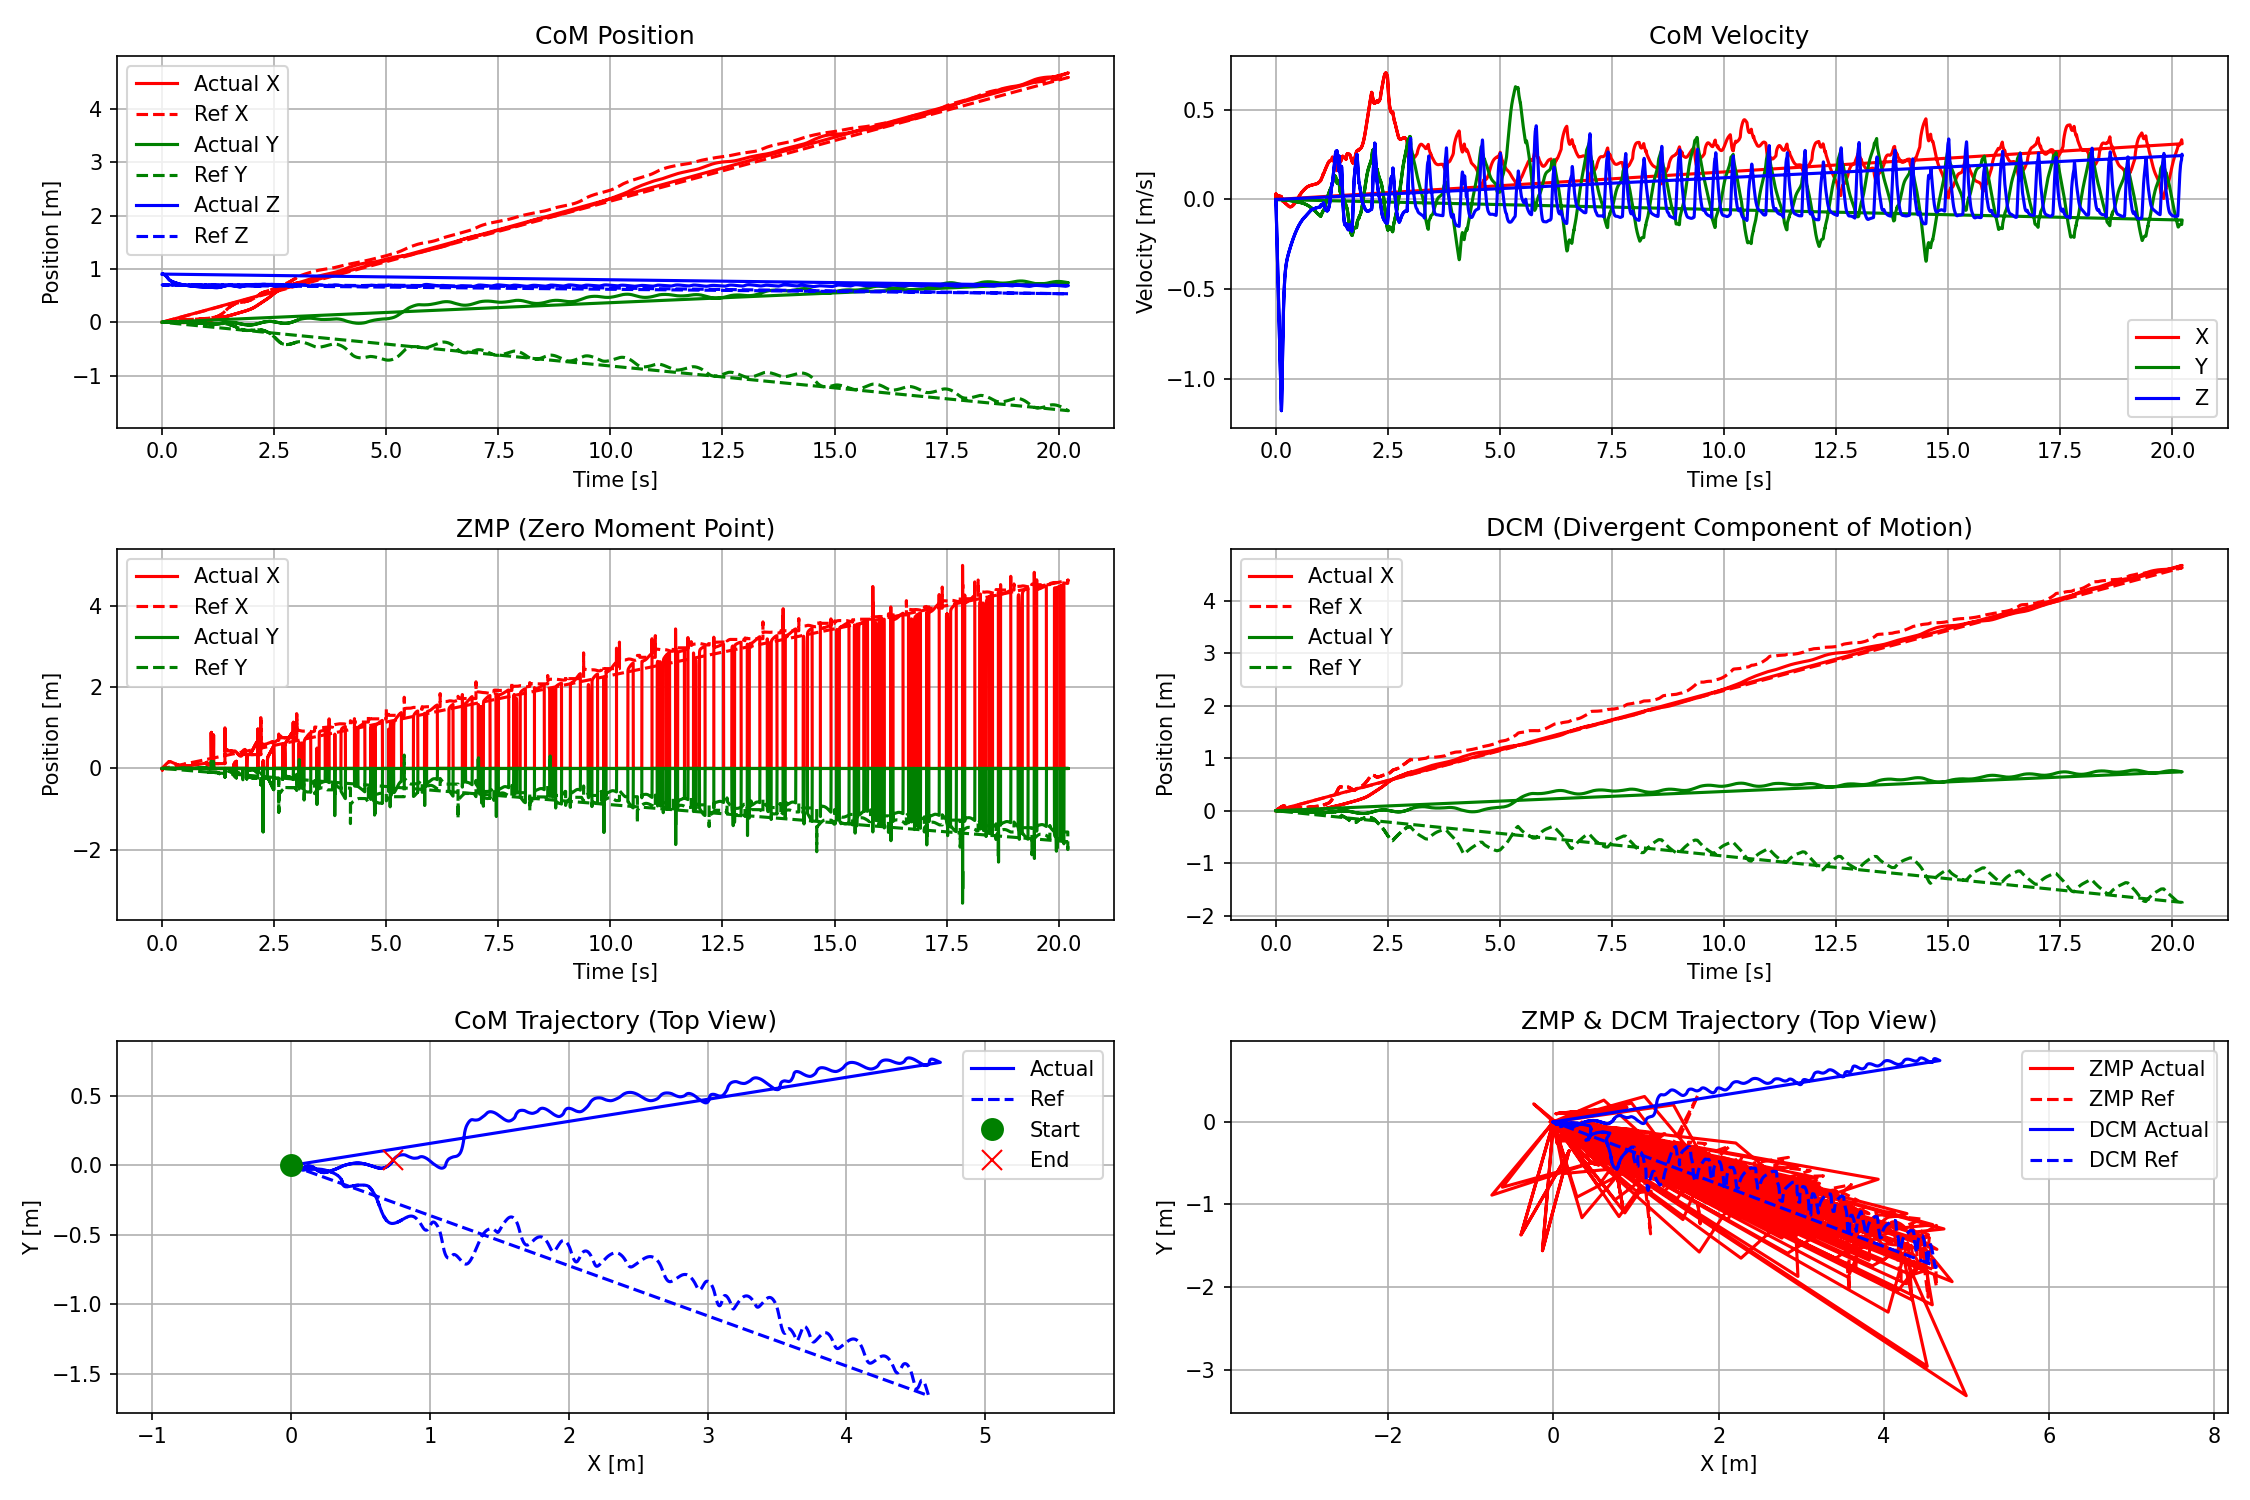
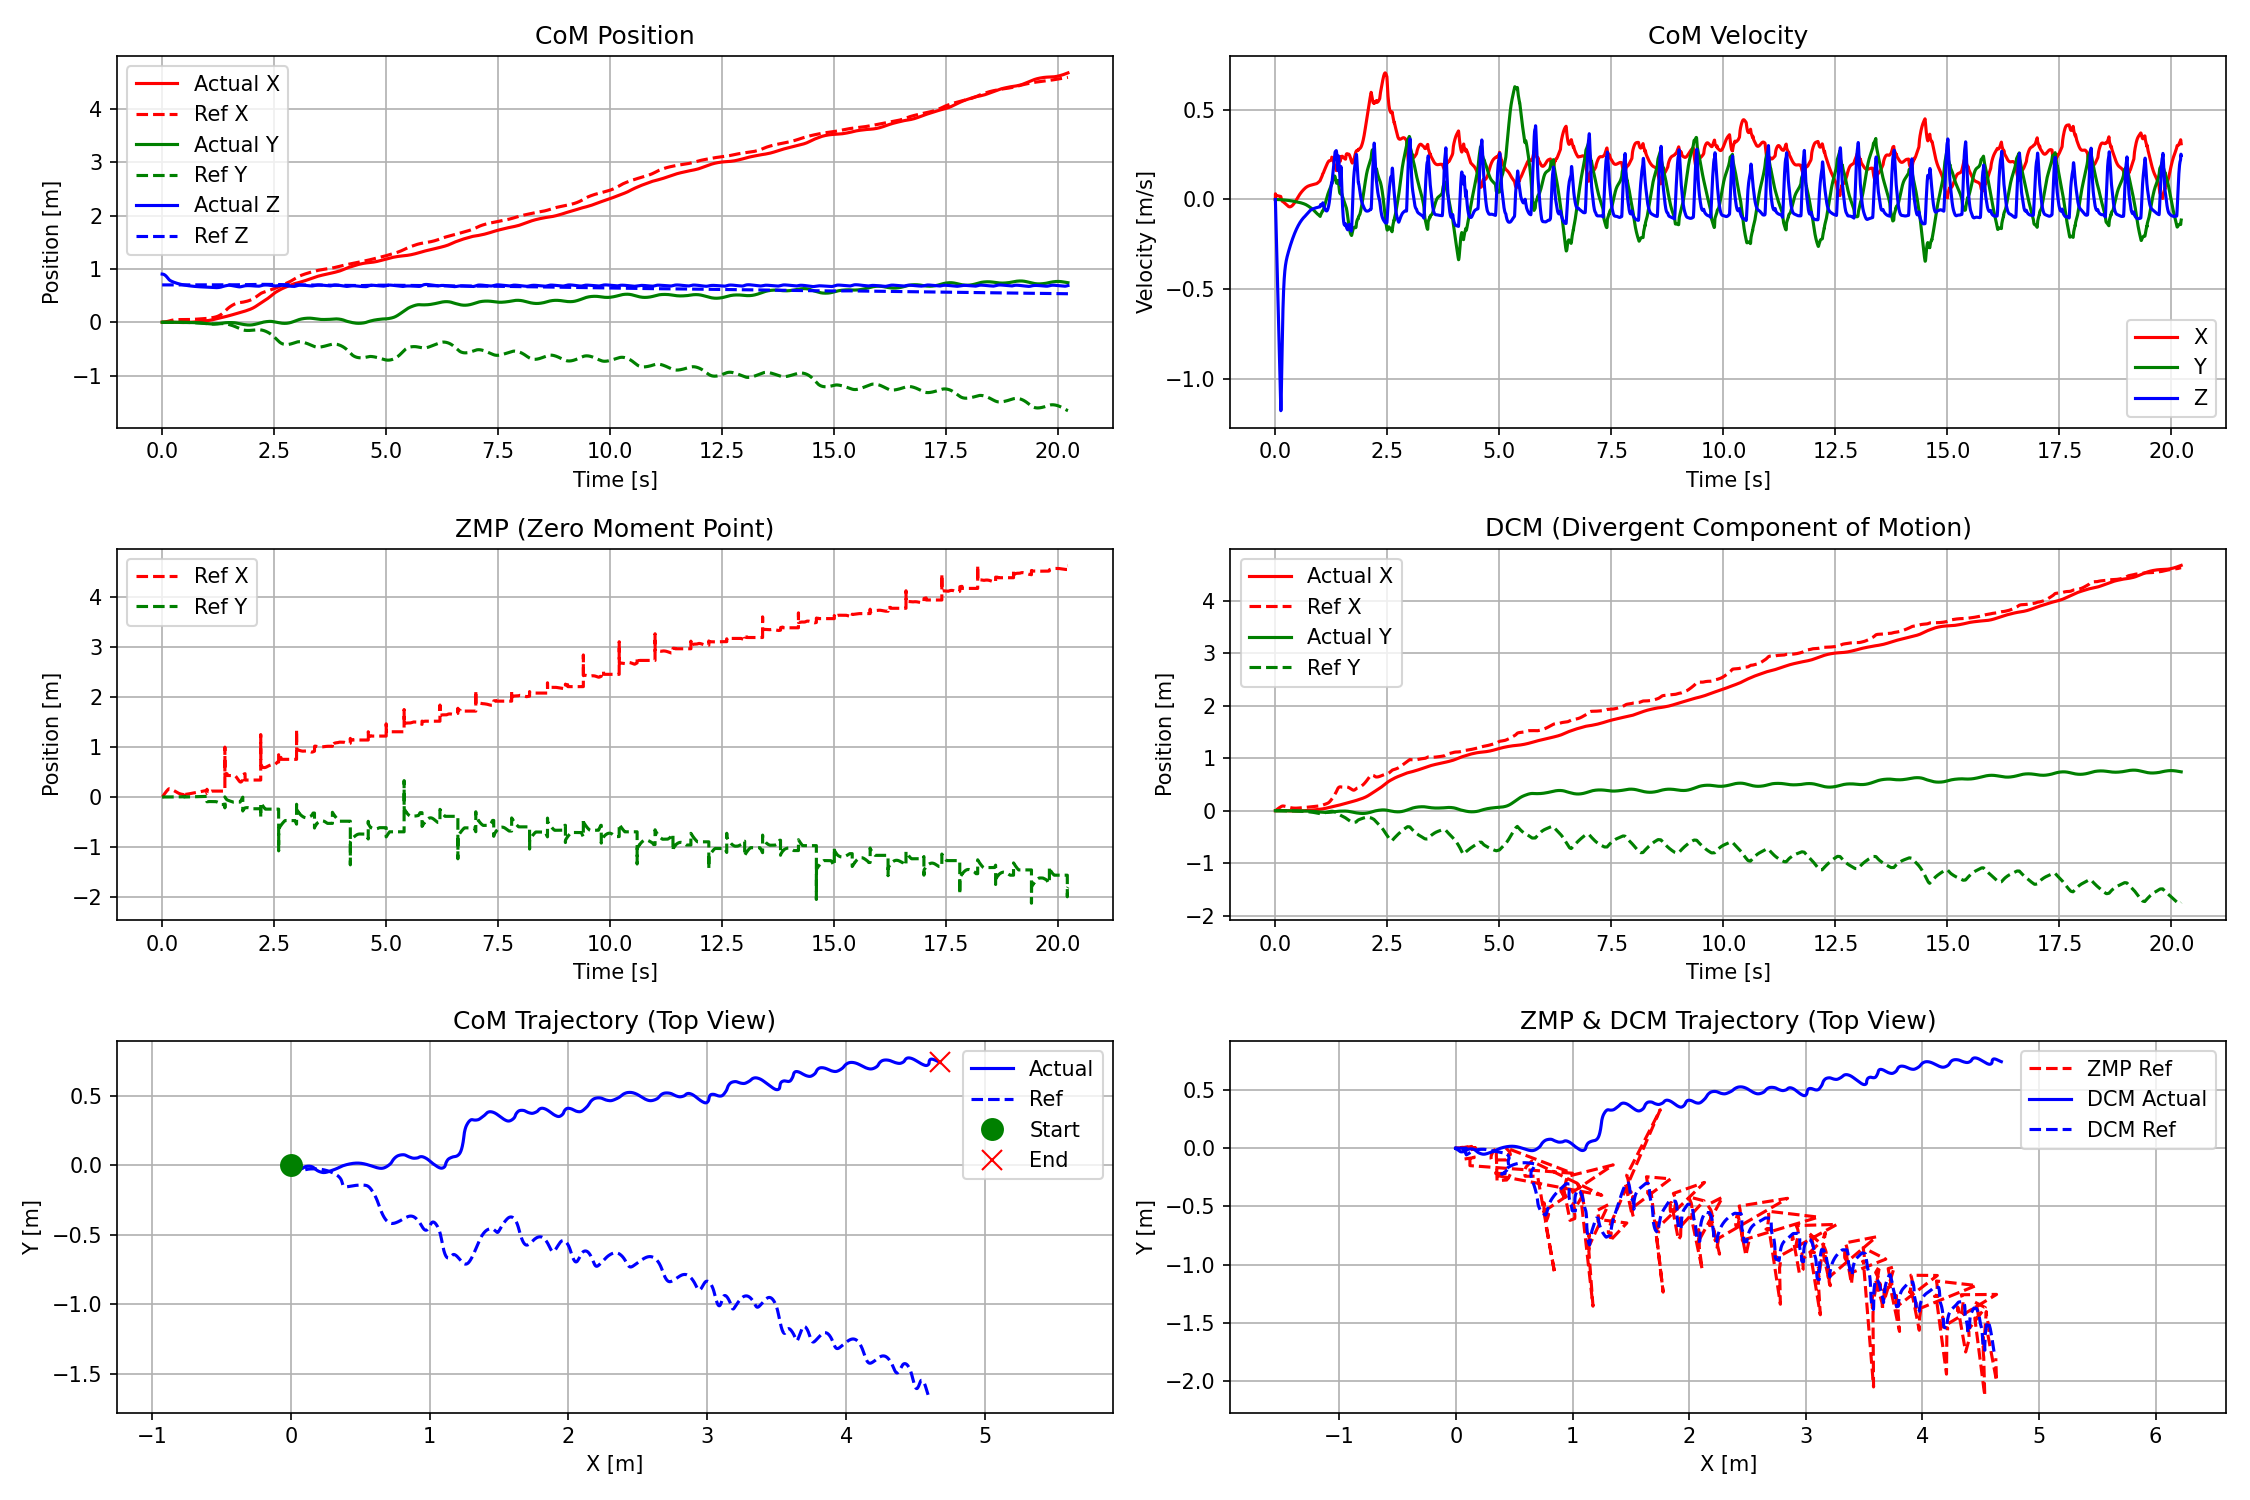
#3 変に書き換えるな

diff --git a/python_scripts/record_humanoid.py b/python_scripts/record_humanoid.py
@@ -30,7 +30,7 @@ print("  - 推論モード: 学習済みポリシー使用")
 print("=" * 70)
 
 # チェックポイント確認
-checkpoint_dir = os.path.abspath("./humanoid_vnoid_checkpoint_id1")
+checkpoint_dir = os.path.abspath("./humanoid_vnoid_checkpoint_id3")
 if not os.path.exists(checkpoint_dir):
     print(f"\n❌ エラー: チェックポイントが見つかりません")
     print(f"パス: {checkpoint_dir}")

diff --git a/python_scripts/my_humanoid_env.py b/python_scripts/my_humanoid_env.py
@@ -82,7 +82,7 @@ class HumanoidVnoidEnv(gym.Env):
         # actionをスケーリング
          rl_action = np.zeros(2, dtype=np.float64)
          rl_action[0] = action[0] * 0.15   
-         rl_action[1] = action[1] * 0.15   
+         rl_action[1] = action[1] * 0.1  
          #rl_action[2] = action[2] * 0.15 
          #rl_action[3] = action[3] * 0.1
          #rl_action[4] = action[4] * 0.2  
